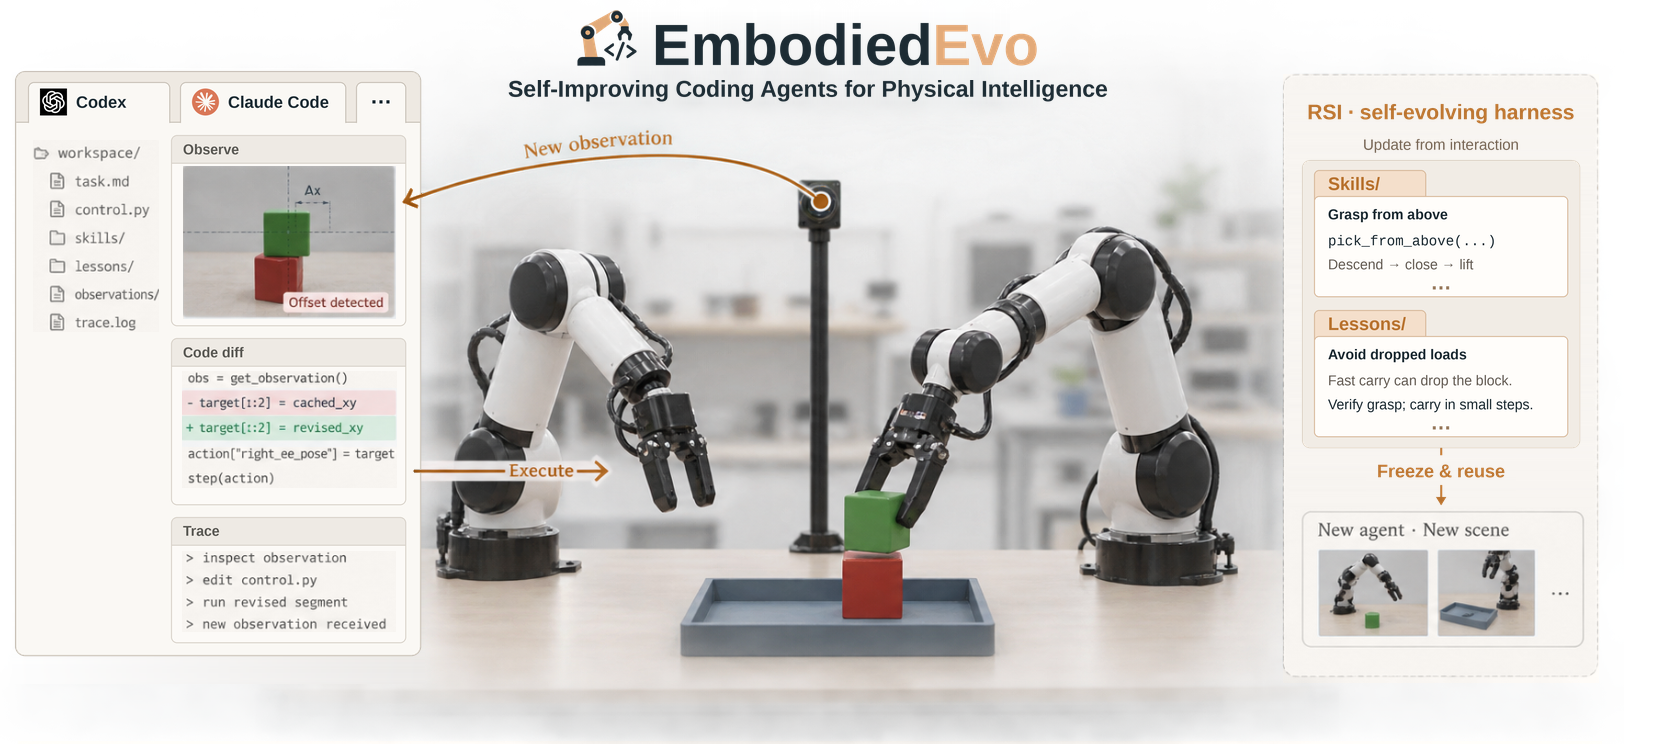
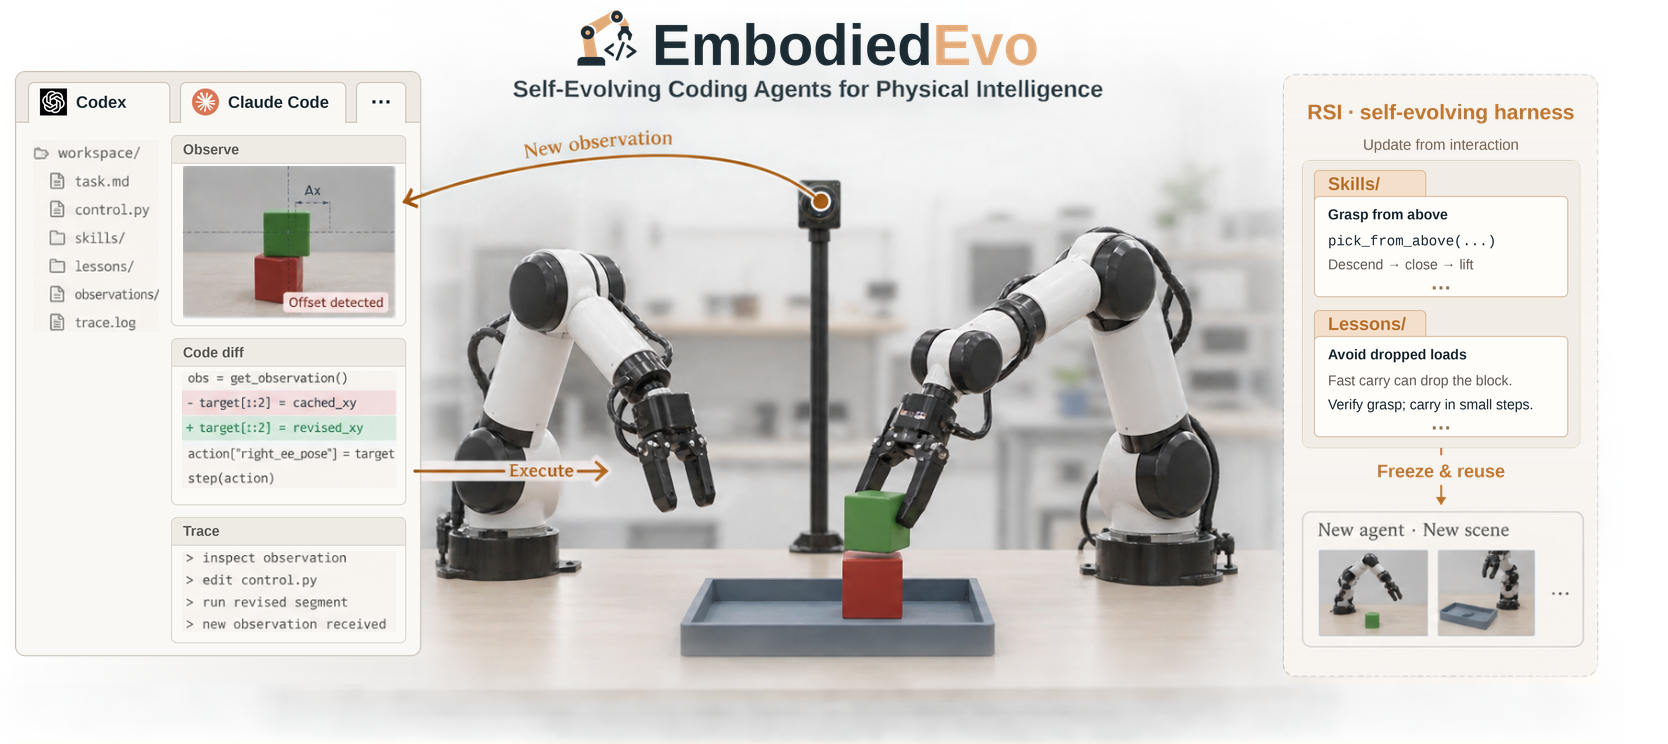
docs: update overview and arXiv citation

Changed region(s): [[0.3118, 0.0927, 0.6547, 0.1546]]

diff --git a/README.md b/README.md
@@ -1,26 +1,36 @@
-# EmbodiedEvo: Self-improving Code Agents for Physical Intelligence
+# EmbodiedEvo: Self-Evolving Coding Agent For Physical Intelligence
 
-<!-- Release links: wrap each badge in an <a> when its page is available.
-     arXiv: https://arxiv.org/abs/ARXIV_ID
-     Project page: https://lab.einsia.ai/embodiedevo/
-     Update the provisional BibTeX entry below after the arXiv release. -->
 <p align="center">
-  <img src="https://img.shields.io/badge/arXiv-Coming%20soon-B31B1B?style=flat-square" alt="arXiv: coming soon" />
+  <a href="https://arxiv.org/abs/2610.18867">
+    <img src="https://img.shields.io/badge/arXiv-2610.18867-B31B1B?style=flat-square" alt="arXiv: 2610.18867" />
+  </a>
   <a href="https://lab.einsia.ai/embodiedevo/">
     <img src="https://img.shields.io/badge/Project%20Page-Website-315F85?style=flat-square" alt="Project Page" />
   </a>
 </p>
 
 <p align="center">
-  <img src="docs/images/embodiedevo-hero.png" alt="EmbodiedEvo overview: a coding agent learns Skills and Lessons from physical feedback in Playground, then freezes and transfers them to fresh agents in new Test scenes." width="100%" />
+  <img src="docs/images/embodiedevo-hero.png" alt="EmbodiedEvo overview: a coding agent observes physical feedback, revises and executes control code, and accumulates reusable Skills and Lessons that are frozen and transferred to a fresh agent in each new Test scene." width="100%" />
 </p>
 
-**Building visual and physical intelligence through code.**
+**Observe, revise code, and act. Learn Skills and Lessons from physical feedback.**
 
-EmbodiedEvo runs a coding agent in a persistent RoboDojo simulation session. During
-Playground, the agent observes the scene, executes Python, and writes reusable
-Skills and Lessons. Test freezes that knowledge and starts a fresh agent,
-workspace and simulator for each new scene.
+EmbodiedEvo connects a coding agent's workspace to a persistent RoboDojo simulation
+session. The agent inspects observations, edits Python control code, executes it,
+and uses the resulting physical feedback to guide its next revision. Its evolving
+knowledge lives in reusable code and written lessons in the workspace.
+
+1. **Observe, revise, execute.** Inspect camera observations and robot state,
+   update control code, and execute the revised segment in the same Python and
+   simulation session. New observations close the interaction loop.
+2. **Build Skills and Lessons in Playground.** Turn interaction experience into
+   reusable helpers in `skills/` and practical guidance in `lessons/`, such as
+   grasping from above, verifying a grasp, or carrying an object in small steps.
+   Playground permits same-scene resets while the agent refines this knowledge.
+3. **Freeze and reuse in Test.** Freeze only `skills/` and `lessons/` before
+   selecting Test scenes. Each scene starts with a fresh agent, workspace, and
+   simulator. The transferred knowledge is read-only; the agent can observe and
+   revise code within the scene, but cannot reset or learn across Test scenes.
 
 ## Setup
 
@@ -104,15 +114,19 @@ recipes retain their Apache-2.0 license and source attribution; see
 
 ## Citation
 
-If you use EmbodiedEvo in your research, please cite the manuscript below.
-This provisional citation will be updated with the arXiv identifier after release.
+If you use EmbodiedEvo in your research, please cite our
+[paper](https://arxiv.org/abs/2610.18867).
 
 ```bibtex
-@misc{li2026embodiedevo,
-  title  = {{EmbodiedEvo}: Self-improving Code Agents for Physical Intelligence},
-  author = {Li, Wenyi and Chi, Yizhe and Zheng, Youjie and Liu, Chunyu and
-            Wang, Xiaoqiu and Gao, Mingju and Jiang, Zheng and Hong, Deyao and
-            Xiao, Calvin and Yang, Kaisen and Na, Qinhuai},
-  year   = {2026}
+@misc{li2026embodiedevoselfimprovingcodingagents,
+  title         = {EmbodiedEvo: Self-improving Coding Agents for Physical Intelligence},
+  author        = {Wenyi Li and Yizhe Chi and Youjie Zheng and Chunyu Liu and
+                   Xiaoqiu Wang and Mingju Gao and Zheng Jiang and Deyao Hong and
+                   Calvin Xiao and Kaisen Yang and Qinhuai Na},
+  year          = {2026},
+  eprint        = {2610.18867},
+  archivePrefix = {arXiv},
+  primaryClass  = {cs.RO},
+  url           = {https://arxiv.org/abs/2610.18867}
 }
 ```
